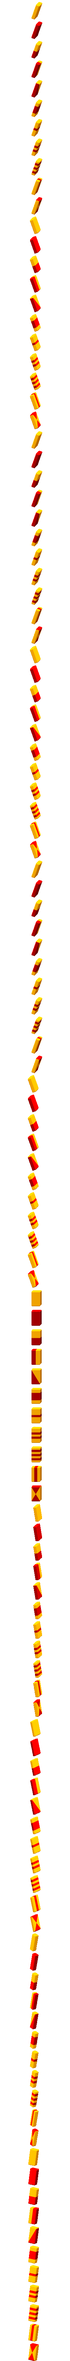
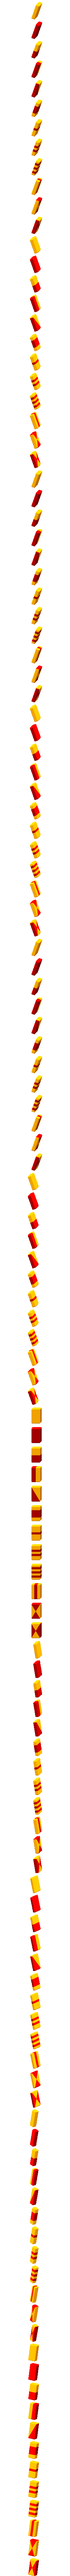
add "inverse" entangled domino

Changed region(s): [[0.39, 0.0, 0.6, 1.0]]

diff --git a/src/levelplayer.cpp b/src/levelplayer.cpp
@@ -149,6 +149,8 @@ bool levelPlayer_c::pushDomino(int x, int y, int dir) {
     case DominoTypeEmpty:
     case DominoTypeStandard:
     case DominoTypeStopper:
+    case DominoTypeConnectedA:
+    case DominoTypeConnectedB:
       if (getDominoDir(x, y) == -dir)
       {
         DominoCrash(x, y, getDominoYOffset(x+dir, y), getDominoExtra(x+dir, y));
@@ -236,17 +238,50 @@ bool levelPlayer_c::pushDomino(int x, int y, int dir) {
       break;
 
       // here we must go over the complete level and start all connector stones
-    case DominoTypeConnected:
+    case DominoTypeConnectedA:
       {
         bool sound = false;
         for (int yp = 0; yp < 13; yp++)
           for (int xp = 0; xp < 20; xp++)
-            if (getDominoType(xp, yp) == DominoTypeConnected && getDominoState(xp, yp) == 8)
+          {
+            if (getDominoType(xp, yp) == DominoTypeConnectedA && getDominoState(xp, yp) == 8)
             {
               sound = true;
               setDominoDir(xp, yp, dir);
               setDominoState(xp, yp, getDominoState(xp, yp)+dir);
             }
+            if (getDominoType(xp, yp) == DominoTypeConnectedB && getDominoState(xp, yp) == 8)
+            {
+              sound = true;
+              setDominoDir(xp, yp, -dir);
+              setDominoState(xp, yp, getDominoState(xp, yp)-dir);
+            }
+          }
+        if (sound)
+        {
+          soundSystem_c::instance()->startSound(getDominoType(x, y)-1);
+        }
+      }
+      break;
+    case DominoTypeConnectedB:
+      {
+        bool sound = false;
+        for (int yp = 0; yp < 13; yp++)
+          for (int xp = 0; xp < 20; xp++)
+          {
+            if (getDominoType(xp, yp) == DominoTypeConnectedB && getDominoState(xp, yp) == 8)
+            {
+              sound = true;
+              setDominoDir(xp, yp, dir);
+              setDominoState(xp, yp, getDominoState(xp, yp)+dir);
+            }
+            if (getDominoType(xp, yp) == DominoTypeConnectedA && getDominoState(xp, yp) == 8)
+            {
+              sound = true;
+              setDominoDir(xp, yp, -dir);
+              setDominoState(xp, yp, getDominoState(xp, yp)-dir);
+            }
+          }
         if (sound)
         {
           soundSystem_c::instance()->startSound(getDominoType(x, y)-1);
@@ -2141,7 +2176,7 @@ void levelPlayer_c::callStateFunction(int type, int state, int x, int y) {
     case 168: DTA_H(x, y); break;
     case 169: DTA_H(x, y); break;
 
-              // DominoTypeConnected
+              // DominoTypeConnectedA
     case 170: DTA_1(x, y); break;
     case 171: DTA_2(x, y); break;
     case 172: DTA_3(x, y); break;
@@ -2158,47 +2193,64 @@ void levelPlayer_c::callStateFunction(int type, int state, int x, int y) {
     case 183: DTA_J(x, y); break;
     case 184: DTA_K(x, y); break;
 
-              // DominoTypeCrash0
-    case 187: DTA_B(x, y); break;
-    case 188: DTA_B(x, y); break;
-    case 189: DTA_B(x, y); break;
-    case 190: DTA_B(x, y); break;
-    case 191: DTA_B(x, y); break;
+              // DominoTypeConnectedA
+    case 187: DTA_1(x, y); break;
+    case 188: DTA_2(x, y); break;
+    case 189: DTA_3(x, y); break;
+    case 190: DTA_4(x, y); break;
+    case 191: DTA_4(x, y); break;
+    case 192: DTA_4(x, y); break;
+    case 193: DTA_4(x, y); break;
+    case 194: DTA_E(x, y); break;
+    case 195: DTA_4(x, y); break;
+    case 196: DTA_4(x, y); break;
+    case 197: DTA_4(x, y); break;
+    case 198: DTA_4(x, y); break;
+    case 199: DTA_I(x, y); break;
+    case 200: DTA_J(x, y); break;
+    case 201: DTA_K(x, y); break;
 
-              // DominoTypeCrash1
+              // DominoTypeCrash0
     case 204: DTA_B(x, y); break;
     case 205: DTA_B(x, y); break;
     case 206: DTA_B(x, y); break;
     case 207: DTA_B(x, y); break;
     case 208: DTA_B(x, y); break;
 
-              // DominoTypeCrash2
+              // DominoTypeCrash1
     case 221: DTA_B(x, y); break;
     case 222: DTA_B(x, y); break;
     case 223: DTA_B(x, y); break;
     case 224: DTA_B(x, y); break;
     case 225: DTA_B(x, y); break;
 
-              // DominoTypeCrash3
+              // DominoTypeCrash2
     case 238: DTA_B(x, y); break;
     case 239: DTA_B(x, y); break;
     case 240: DTA_B(x, y); break;
     case 241: DTA_B(x, y); break;
     case 242: DTA_B(x, y); break;
 
-              // DominoTypeCrash4
+              // DominoTypeCrash3
     case 255: DTA_B(x, y); break;
     case 256: DTA_B(x, y); break;
     case 257: DTA_B(x, y); break;
     case 258: DTA_B(x, y); break;
     case 259: DTA_B(x, y); break;
 
-              // DominoTypeCrash5
+              // DominoTypeCrash4
     case 272: DTA_B(x, y); break;
     case 273: DTA_B(x, y); break;
     case 274: DTA_B(x, y); break;
     case 275: DTA_B(x, y); break;
     case 276: DTA_B(x, y); break;
+
+              // DominoTypeCrash5
+    case 289: DTA_B(x, y); break;
+    case 290: DTA_B(x, y); break;
+    case 291: DTA_B(x, y); break;
+    case 292: DTA_B(x, y); break;
+    case 293: DTA_B(x, y); break;
               // DominoTypeRiserCont
               // DominoTypeQuaver
   }

diff --git a/src/graphicsn.cpp b/src/graphicsn.cpp
@@ -167,7 +167,7 @@ void graphicsN_c::loadGraphics(void) {
     pngLoader_c png(dataPath+"/data/carried.png");
 
     for (unsigned int i = 0; i < 7; i++) {
-      for (unsigned int j = 0; j < 11; j++) {
+      for (unsigned int j = 0; j < 12; j++) {
         SDL_Surface * v = SDL_CreateRGBSurface(0, png.getWidth(), 55, 32, 0xff, 0xff00, 0xff0000, 0xff000000);
         SDL_SetAlpha(v, SDL_SRCALPHA | SDL_RLEACCEL, 0);
 
@@ -179,20 +179,20 @@ void graphicsN_c::loadGraphics(void) {
 
     // copy some surfaces surfaces
     for (unsigned int i = 7; i < 10; i++) {
-      for (unsigned int j = 0; j < 11; j++) {
+      for (unsigned int j = 0; j < 12; j++) {
         setCarriedDomino(i, j, SDL_DisplayFormatAlpha(getCarriedDomino(i-1, j)));
       }
     }
 
     for (unsigned int i = 10; i < 12; i++) {
-      for (unsigned int j = 0; j < 11; j++) {
+      for (unsigned int j = 0; j < 12; j++) {
         setCarriedDomino(i, j, SDL_DisplayFormatAlpha(getCarriedDomino(i & 1, j)));
       }
     }
 
     // load the final surfaces
     for (unsigned int i = 12; i < 16; i++) {
-      for (unsigned int j = 0; j < 11; j++) {
+      for (unsigned int j = 0; j < 12; j++) {
         SDL_Surface * v = SDL_CreateRGBSurface(0, png.getWidth(), 55, 32, 0xff, 0xff00, 0xff0000, 0xff000000);
         SDL_SetAlpha(v, SDL_SRCALPHA | SDL_RLEACCEL, 0);
 

diff --git a/src/graphics.cpp b/src/graphics.cpp
@@ -18,7 +18,7 @@ graphics_c::graphics_c(void) {
 
   for (unsigned int i = 0; i < numDominoTypes; i++) {
     dominos[i].resize(numDominos[i]);
-    carriedDominos[i].resize(10);
+    carriedDominos[i].resize(12);
   }
 
   ant.resize(numAntAnimations);
@@ -87,9 +87,9 @@ void graphics_c::addAnt(unsigned int anim, unsigned int img, signed char yOffset
   ant[anim][img] = s;
 }
 
-const unsigned char graphics_c::numDominoTypes = 19;
+const unsigned char graphics_c::numDominoTypes = 20;
 const unsigned char graphics_c::numDominos[numDominoTypes] = {
-  15, 15, 14, 8, 15, 15, 15, 15, 15, 17, 15,
+  15, 15, 14, 8, 15, 15, 15, 15, 15, 17, 15, 15,
   6, 6, 6, 6, 6, 6, 8, 1
 };
 

diff --git a/src/window.cpp b/src/window.cpp
@@ -94,7 +94,15 @@ void helpWindow_c::displayCurrentPage(void)
     s.fillRect(SX*x+TX,   SY*y+TY,   50,   75, 0, 0, 0);
     s.fillRect(SX*x+TX+2, SY*y+TY+2, 50-4, 75-4, 112, 39, 0);
 
-    s.blitBlock(g.getDomino(NUM_STONES_PER_PAGE*page+d, 7), SX*x+TX - 80, SY*y+TY + 4);
+    if (NUM_STONES_PER_PAGE*page+d == 10)
+    {
+      s.blitBlock(g.getDomino(10, 7), SX*x+TX - 80 - 9, SY*y+TY + 4);
+      s.blitBlock(g.getDomino(11, 7), SX*x+TX - 80 + 9, SY*y+TY + 4);
+    }
+    else
+    {
+      s.blitBlock(g.getDomino(NUM_STONES_PER_PAGE*page+d, 7), SX*x+TX - 80, SY*y+TY + 4);
+    }
 
     par.font = FNT_SMALL;
     par.alignment = ALN_TEXT;

diff --git a/data/sources/assembler.c b/data/sources/assembler.c
@@ -64,7 +64,7 @@ int specialCases[] =
 
 #ifdef CARRIED
 
-#define DS(x, y) (11*(x)+(y))  // calculate domino number y out of set x
+#define DS(x, y) (12*(x)+(y))  // calculate domino number y out of set x
 
 #define DOM(x, sx, sy) \
     DS((x), 0), (sx), (sy), 54, \
@@ -77,7 +77,8 @@ int specialCases[] =
     DS((x), 7), (sx), (sy), 54, \
     DS((x), 8), (sx), (sy), 54, \
     DS((x), 9), (sx), (sy), 54, \
-    DS((x),10), (sx), (sy), 54,
+    DS((x),10), (sx), (sy), 54, \
+    DS((x),11), (sx), (sy), 54, 
 
 int specialCases[] =
     //Image number

diff --git a/src/leveldata.h b/src/leveldata.h
@@ -104,7 +104,8 @@ class levelData_c {
       DominoTypeVanish,
       DominoTypeTrigger,
       DominoTypeAscender,
-      DominoTypeConnected,
+      DominoTypeConnectedA,
+      DominoTypeConnectedB,
       DominoTypeCrash0,         // all yello big pile
       DominoTypeCrash1,         // mixed big pile
       DominoTypeCrash2,         // all red big pile

diff --git a/src/leveldata.cpp b/src/leveldata.cpp
@@ -41,7 +41,8 @@ const std::string levelData_c::dominoChars =
   ":" /* DominoTypeVanish   */
   "!" /* DominoTypeTrigger  */
   "A" /* DominoTypeAscender */
-  "X" /* DominoTypeConnected */
+  "X" /* DominoTypeConnectedA */
+  "x" /* DominoTypeConnectedA */
   ;
 
 bool levelData_c::isDominoChar(char ch) {

diff --git a/src/graphics.h b/src/graphics.h
@@ -65,7 +65,7 @@ class graphics_c {
     virtual void loadTheme(const std::string & name) = 0;
 
     static const unsigned char numDominoTypes;
-    static const unsigned char numDominos[19];
+    static const unsigned char numDominos[20];
 
     static const unsigned char numAntAnimations;
 
